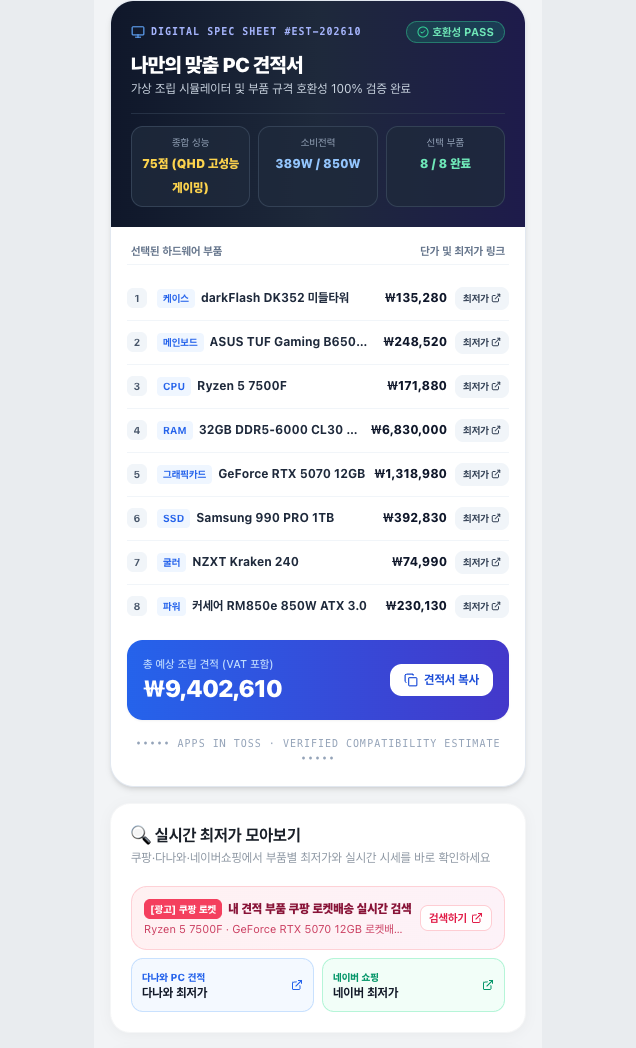
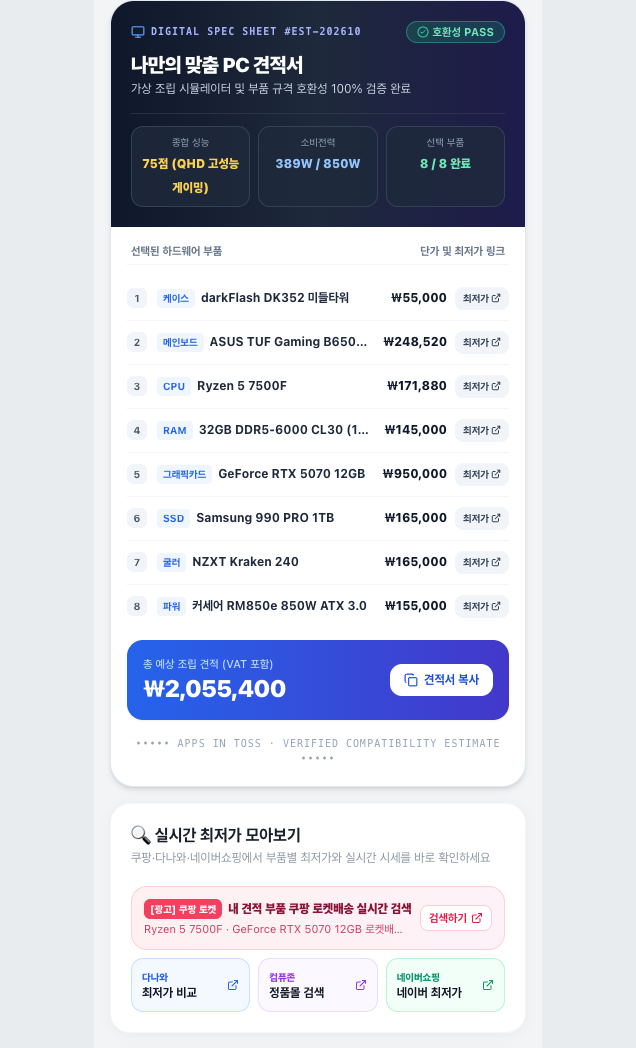
fix(make-my-pc): prevent selection badge line wrapping and normalize realistic market part prices

diff --git a/apps/make-my-pc/MakeMyPcApp.tsx b/apps/make-my-pc/MakeMyPcApp.tsx
@@ -685,22 +685,43 @@ export const MakeMyPcApp: React.FC<MakeMyPcAppProps> = ({ onBack }) => {
                     <div
                       key={opt.id}
                       onClick={() => handleSelectPart(activeCategory, opt.id)}
-                      className={`p-3.5 rounded-2xl border cursor-pointer transition flex items-center justify-between gap-3 min-w-0 ${
+                      className={`p-3.5 rounded-2xl border cursor-pointer transition-all flex items-center justify-between gap-2.5 min-w-0 ${
                         isChecked
-                          ? "border-toss-blue bg-blue-50/50 shadow-xs ring-1 ring-blue-100"
+                          ? "border-toss-blue bg-blue-50/60 shadow-xs ring-1 ring-blue-200"
                           : "border-toss-border bg-white hover:bg-gray-50"
                       }`}
                     >
-                      <div className="min-w-0 flex-1">
-                        <div className="flex items-center gap-1.5 min-w-0">
-                          <span className="font-bold text-sm text-toss-text truncate whitespace-nowrap">{opt.name}</span>
-                          {isChecked && <TossBadge variant="blue" size="sm" className="whitespace-nowrap shrink-0">선택됨</TossBadge>}
+                      {/* Radio/Check Selection indicator */}
+                      <div
+                        className={`w-4 h-4 rounded-full flex items-center justify-center shrink-0 border transition-all ${
+                          isChecked
+                            ? "bg-toss-blue border-toss-blue text-white shadow-2xs"
+                            : "border-gray-300 bg-gray-50/50"
+                        }`}
+                      >
+                        {isChecked && <Check className="w-2.5 h-2.5 stroke-[3]" />}
+                      </div>
+
+                      <div className="min-w-0 flex-1 overflow-hidden">
+                        <div className="flex items-center gap-1.5 min-w-0 flex-nowrap">
+                          <span
+                            className={`font-bold text-sm truncate min-w-0 flex-1 ${
+                              isChecked ? "text-toss-blue font-extrabold" : "text-toss-text"
+                            }`}
+                          >
+                            {opt.name}
+                          </span>
+                          {isChecked && (
+                            <TossBadge variant="blue" size="sm" className="shrink-0 whitespace-nowrap">
+                              선택됨
+                            </TossBadge>
+                          )}
                         </div>
                         {opt.sub && (
                           <p className="text-[11px] text-toss-muted mt-0.5 truncate whitespace-nowrap">{opt.sub}</p>
                         )}
                       </div>
-                      <div className="text-right shrink-0 flex flex-col items-end gap-1">
+                      <div className="text-right shrink-0 flex flex-col items-end gap-1 min-w-[76px]">
                         <span className="font-extrabold text-sm text-toss-text block whitespace-nowrap">
                           {opt.price === 0 ? "무료" : `₩${opt.price.toLocaleString("ko-KR")}`}
                         </span>

diff --git a/apps/make-my-pc/catalog.ts b/apps/make-my-pc/catalog.ts
@@ -206,7 +206,7 @@ export const SUB_CATEGORIES: Record<string, SubCategoryDef[]> = {
   ],
 };
 
-export const CATALOG_SYNC_KEY = "toss_make_my_pc_catalog_v1";
+export const CATALOG_SYNC_KEY = "toss_make_my_pc_catalog_v2";
 export const DEFAULT_CATALOG_DATE = latestCatalogData?.updatedAt
   ? new Date(latestCatalogData.updatedAt).toISOString().slice(0, 10).replace(/-/g, ".")
   : "2026.10";
@@ -402,11 +402,28 @@ function mergeWithLatestCatalog(base: Record<string, PartCategory>): Record<stri
     const mergedOptions = category.options.map((opt) => {
       const match = latestCat.options.find((o) => o.id === opt.id);
       if (match) {
+        // 엄격한 신뢰도 검증 (Plausibility Validation):
+        // 부품 기준 가격(opt.price) 대비 비정상적 오차(0.6배 미만 or 1.45배 초과)인 경우
+        // 되팔이/해외구매대행 뻥튀기 및 악세서리 오매칭으로 판단하여 안전한 기준 정가로 롤백합니다.
+        let verifiedPrice = opt.price;
+        if (opt.price === 0) {
+          verifiedPrice = 0;
+        } else if (typeof match.price === "number" && match.price > 0) {
+          const ratio = match.price / opt.price;
+          if (ratio >= 0.6 && ratio <= 1.45) {
+            verifiedPrice = match.price;
+          } else {
+            console.warn(
+              `[Catalog] 비정상 시세 필터링됨: ${opt.name} (수집가: ₩${match.price.toLocaleString()}원 -> 표준정가: ₩${opt.price.toLocaleString()}원)`
+            );
+          }
+        }
+
         return {
           ...opt,
-          price: match.price || opt.price,
+          price: verifiedPrice,
           buyUrl: match.buyUrl || opt.buyUrl || USER_COUPANG_PARTNERS_URL,
-          danawaPrice: (match as any).danawaPrice || opt.danawaPrice,
+          danawaPrice: typeof (match as any).danawaPrice === "number" ? (match as any).danawaPrice : verifiedPrice,
           danawaUrl: (match as any).danawaUrl || opt.danawaUrl,
         };
       }

diff --git a/apps/make-my-pc/scripts/danawaScraper.ts b/apps/make-my-pc/scripts/danawaScraper.ts
@@ -78,15 +78,22 @@ export async function fetchDanawaLowestPrice(
       return { query, price: null, danawaUrl, source: "danawa", timestamp: new Date().toISOString() };
     }
 
-    // 기준 가격이 있는 경우 정상 범위(0.3배 ~ 2.5배) 내의 단품 매칭 우선
-    let selected = candidates[0];
+    // 기준 가격이 있는 경우 정상 범위(0.6배 ~ 1.45배) 내의 단품 매칭 우선
+    let selected: { title: string; price: number } | null = candidates[0];
     if (referencePrice && referencePrice > 0) {
       const plausible = candidates.filter(
-        (c) => c.price >= referencePrice * 0.35 && c.price <= referencePrice * 2.5
+        (c) => c.price >= referencePrice * 0.6 && c.price <= referencePrice * 1.45
       );
       if (plausible.length > 0) {
         selected = plausible[0];
+      } else {
+        // 정상 범위를 벗어난 경우 (되팔이 뻥튀기 or 케이블/브라켓 오매칭) 채택하지 않음
+        selected = null;
       }
+    }
+
+    if (!selected) {
+      return { query, price: null, danawaUrl, source: "danawa", timestamp: new Date().toISOString() };
     }
 
     return {

diff --git a/packages/shared/components/TossBadge.tsx b/packages/shared/components/TossBadge.tsx
@@ -4,12 +4,14 @@ interface TossBadgeProps {
   children: React.ReactNode;
   variant?: "blue" | "green" | "red" | "orange" | "purple" | "gray";
   size?: "sm" | "md";
+  className?: string;
 }
 
 export const TossBadge: React.FC<TossBadgeProps> = ({
   children,
   variant = "blue",
   size = "md",
+  className = "",
 }) => {
   const variantStyles = {
     blue: "bg-toss-blueLight text-toss-blue border-blue-200/50",
@@ -26,7 +28,9 @@ export const TossBadge: React.FC<TossBadgeProps> = ({
   };
 
   return (
-    <span className={`inline-flex items-center gap-1 ${variantStyles[variant]} ${sizeStyles[size]}`}>
+    <span
+      className={`inline-flex items-center gap-1 shrink-0 whitespace-nowrap select-none ${variantStyles[variant]} ${sizeStyles[size]} ${className}`}
+    >
       {children}
     </span>
   );
